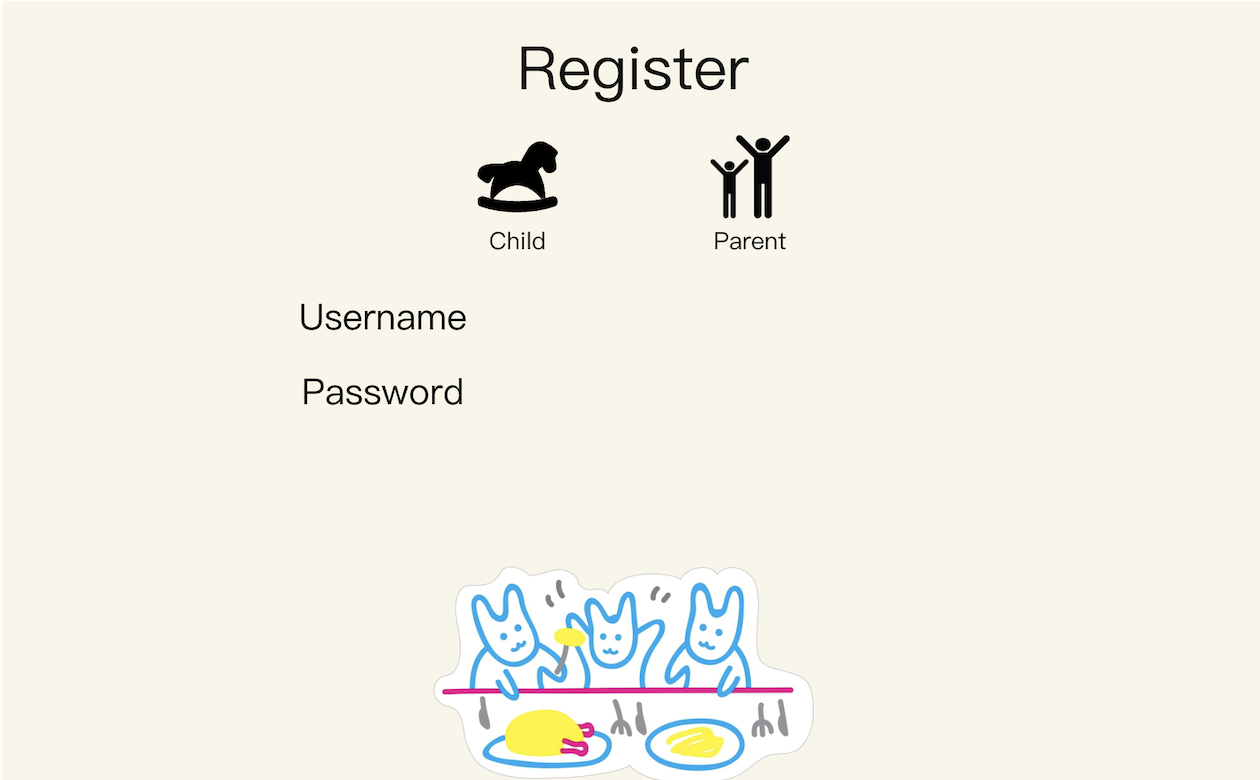
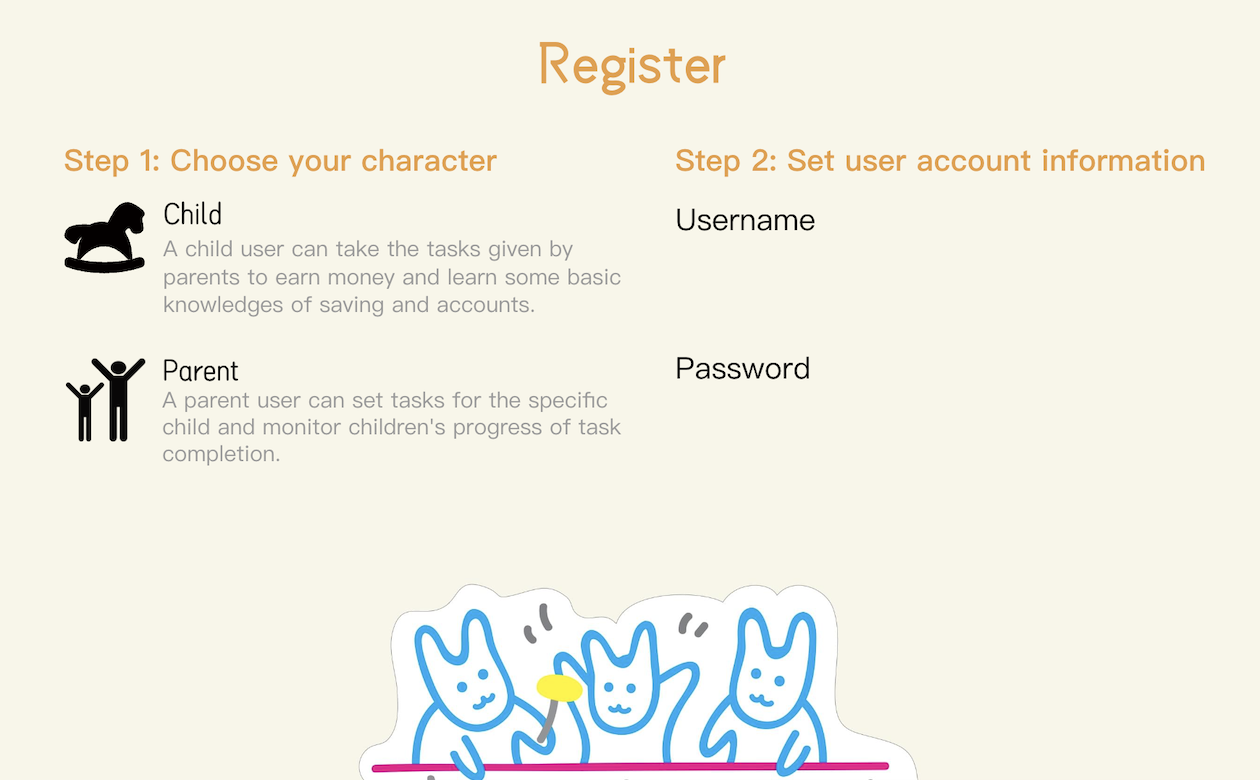
更改页面2——注册页面

diff --git a/src/main/java/com/virtualbank/ui/Page02_Register.java b/src/main/java/com/virtualbank/ui/Page02_Register.java
@@ -10,7 +10,7 @@ public class Page02_Register extends JFrame{
     private JCheckBox childButton = new JCheckBox();
     private JCheckBox parentButton = new JCheckBox();
     private JButton confirmButton = new JButton();
-    private JButton exitButton = new JButton("Exit");
+    private JButton exitButton = new JButton();
 
     public JTextField getUsername_textField() {
         return username_textField;
@@ -51,20 +51,20 @@ public class Page02_Register extends JFrame{
 
         // 输入框
         Border border = BorderFactory.createLineBorder(new Color(0x3d6de1), 2);
-        username_textField.setBounds(480, 290, 350, 50);
+        username_textField.setBounds(676, 245, 420, 50);
         Font font = new Font(username_textField.getFont().getName(), Font.PLAIN, 20); // 创建一个新字体对象，设置大小为20
         username_textField.setFont(font);
         username_textField.setBorder(border);
         backgroundLabel.add(username_textField);
 
-        password_textField.setBounds(480, 370, 350, 50);
+        password_textField.setBounds(676, 390, 420, 50);
         password_textField.setBorder(border);
         password_textField.setFont(font);
         backgroundLabel.add(password_textField);
 
         // 选择父母或孩子的按钮
-        childButton.setBounds(505, 250, 40, 40);
-        parentButton.setBounds(740, 250, 40, 40);
+        childButton.setBounds(92, 280, 40, 40);
+        parentButton.setBounds(92, 450, 40, 40);
         // 创建一个按钮组
         ButtonGroup group = new ButtonGroup();
         group.add(childButton);
@@ -73,15 +73,17 @@ public class Page02_Register extends JFrame{
         backgroundLabel.add(parentButton);
 
         // 确认按钮
-        confirmButton.setBounds(530, 470, 200, 55);
+        confirmButton.setBounds(530, 510, 200, 55);
         ImageIcon confirmButtonIcon = new ImageIcon("images/ConfirmButton.png");
         confirmButton.setIcon(confirmButtonIcon);
         confirmButton.setBorder(null);
         backgroundLabel.add(confirmButton);
 
         // 返回上一级，LoginPage的按钮Exit
-        exitButton.setBounds(20, 20, 100, 50);
+        exitButton.setBounds(20, 20, 114, 50);
         exitButton.setFont(font);
+        ImageIcon exitButtonIcon = new ImageIcon("images/ExitButtonImage.png");
+        exitButton.setIcon(exitButtonIcon);
         exitButton.setBorder(null);
         backgroundLabel.add(exitButton);
 
